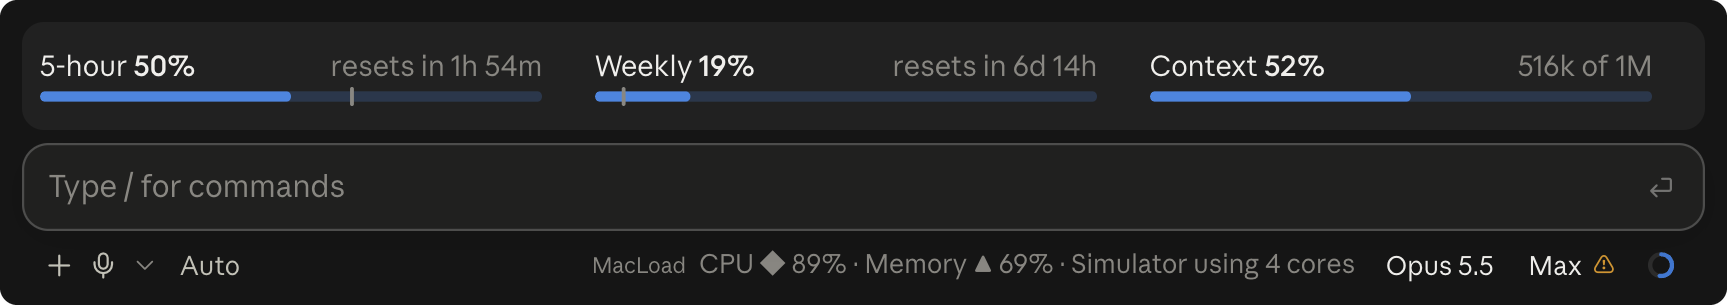
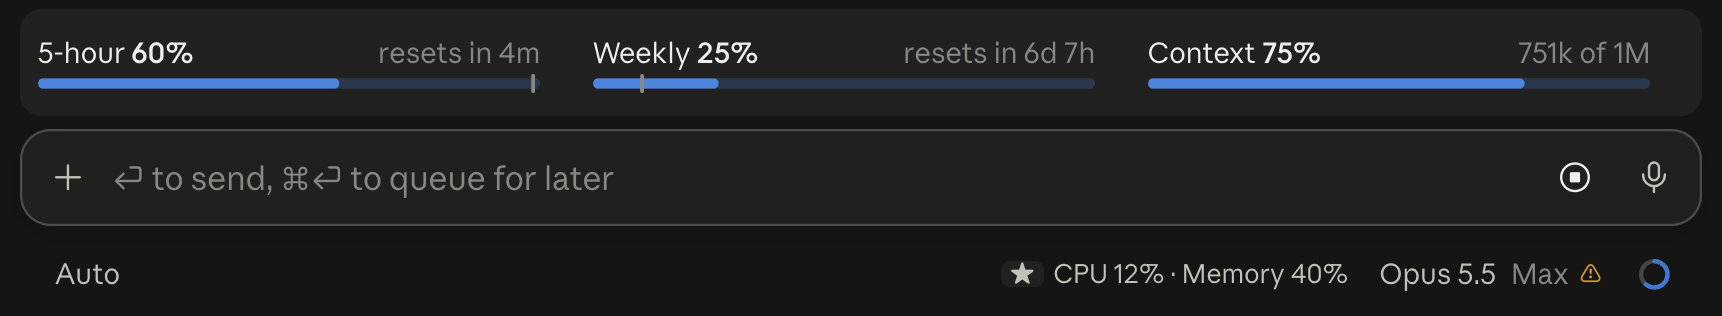
Show star-pins in the screenshot
The new screenshot shows the footer as it now reads in the desktop app:
star-pins' filled star for a pinned chat, then MacLoad's line without the
plugin's name in front of it. The alt text follows the new numbers.

diff --git a/README.md b/README.md
@@ -6,7 +6,7 @@
 </p>
 
 <p align="center">
-  <img src="screenshot.png" width="860" alt="The Claude desktop app with Runway's three meters above the prompt: the 5-hour limit at 50%, the weekly limit at 19% and the context window at 52%. In the footer, MacLoad shows the CPU at 89% and memory at 69%, with Simulator using 4 cores.">
+  <img src="screenshot.png" width="860" alt="The Claude desktop app with Runway's three meters above the prompt: the 5-hour limit at 60%, the weekly limit at 25% and the context window at 75%. In the footer, star-pins' filled star shows the chat is pinned, and MacLoad shows the CPU at 12% and memory at 40%.">
 </p>
 
 Claude's usage limits are easy to forget until you hit one. Runway keeps them in view: how much of your 5-hour and weekly limits you've used, whether you're using them faster than they reset, and how full the chat's context window is.
